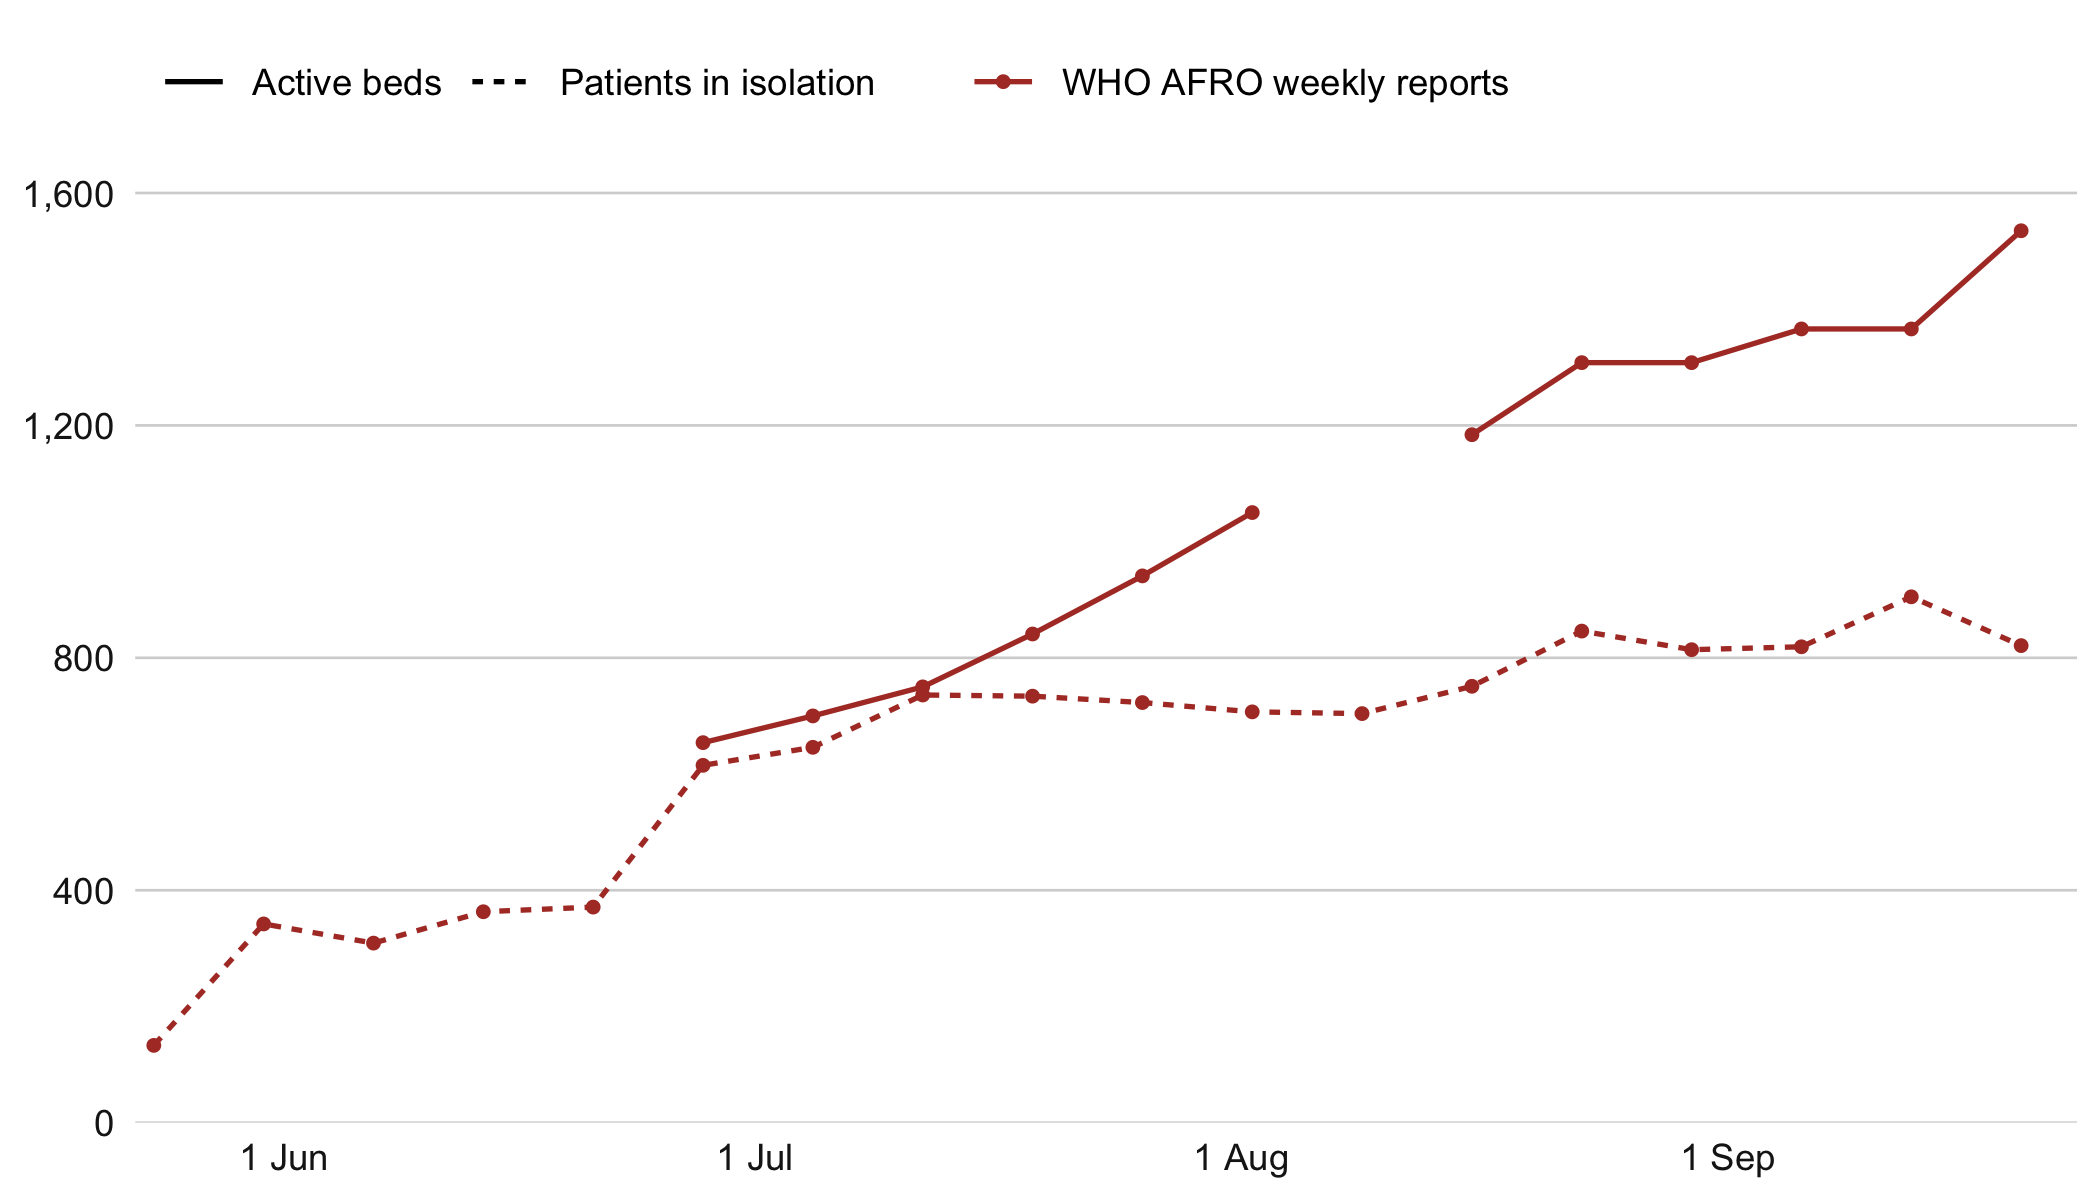
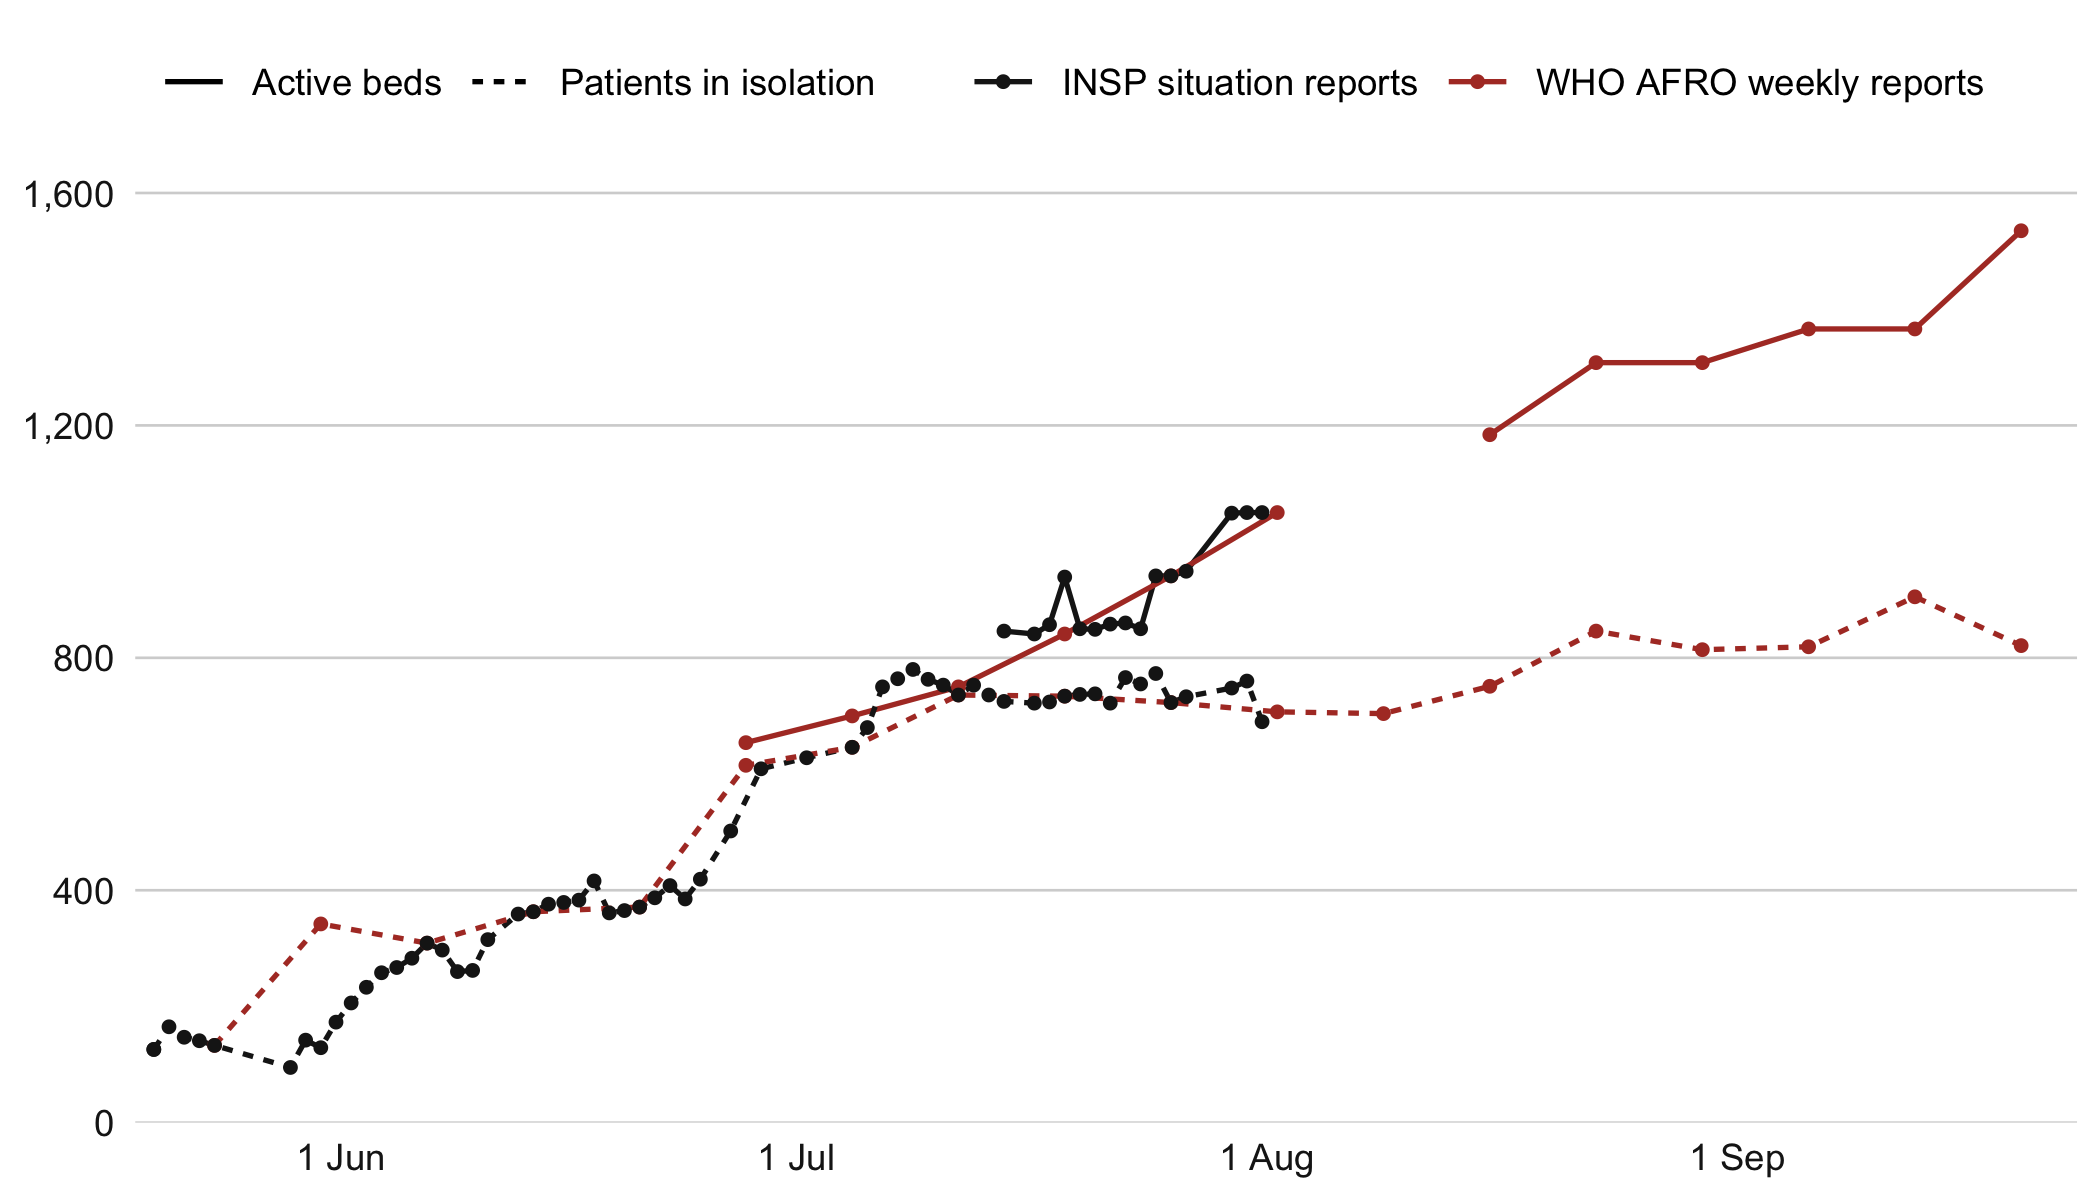
feat(reports): splice the INSP and WHO AFRO series, and say what the overlap shows
Commit-Via: LLM from @kathsherratt

diff --git a/reports/DEVLOG.md b/reports/DEVLOG.md
@@ -37,7 +37,8 @@ In-page comments tagged `UNCERTAIN:` point back to these.
    figures on one date. Rule 1 of the decision settles this.
 
 5. Occupancy above 100 %. WHO AFRO prints Nord-Kivu at 132 to 146 % in
-   several weeks. Shown as printed. The reports do not say whether patients
+   several weeks, and once the INSP tables were read (issue #3) INSP shows
+   the same, up to 160 % on one day in July. Shown as printed. The reports do not say whether patients
    were on extra mattresses, counted in transit centres against treatment
    beds, or whether the denominator lagged new beds. A modeller should not
    read it as a hard ceiling breached without checking the source.
@@ -84,3 +85,28 @@ In-page comments tagged `UNCERTAIN:` point back to these.
     where it is wrong rather than merely superseded. It stays in the table
     with `preferred = FALSE`; a consumer ignoring `preferred` would see a
     laboratory count dropping to 2 in September.
+
+13. The 13 September bed figure (open). Kath's rule 3 (headline box over
+    narrative) picks 1,366 for afro-18, which is exactly the 6 September
+    figure from the week before. The narrative's 1,390 fits a series rising
+    every week. The headline box may simply not have been updated. The plot
+    shows a flat week that is probably an artefact. Worth revisiting rule 3
+    for this one key, or adding a check that a headline equal to the prior
+    week's figure yields to a narrative that differs.
+
+14. `fread` and multi-line quotes. The #3 agent found that
+    `data.table::fread` misreads `evidence_quote` fields that hold a newline
+    and several quoted segments (223 of 2,280 rows), and switched the
+    pipeline to a base-R reader. Row counts and values read identically
+    either way, so the reports keep `fread`; they never show a quote. Anyone
+    reading quotes should use `read_capacity_csv()` in
+    `R/lib/capacity_preferred.R`.
+
+15. INSP and WHO AFRO agree too well to be independent. Stock figures agree
+    at a median ratio of 1.00. That makes the splice seamless, but it means
+    the overlap is not corroboration. Said in the methods page.
+
+16. Discharges do not match across sources (median ratio 0.67). WHO AFRO's
+    `discharges_recovered` is cumulative recoveries; INSP's is daily
+    `Sorties Guéris`, and the comparison paired them where the period
+    matched. Neither report defines the terms. Not used in either page.
